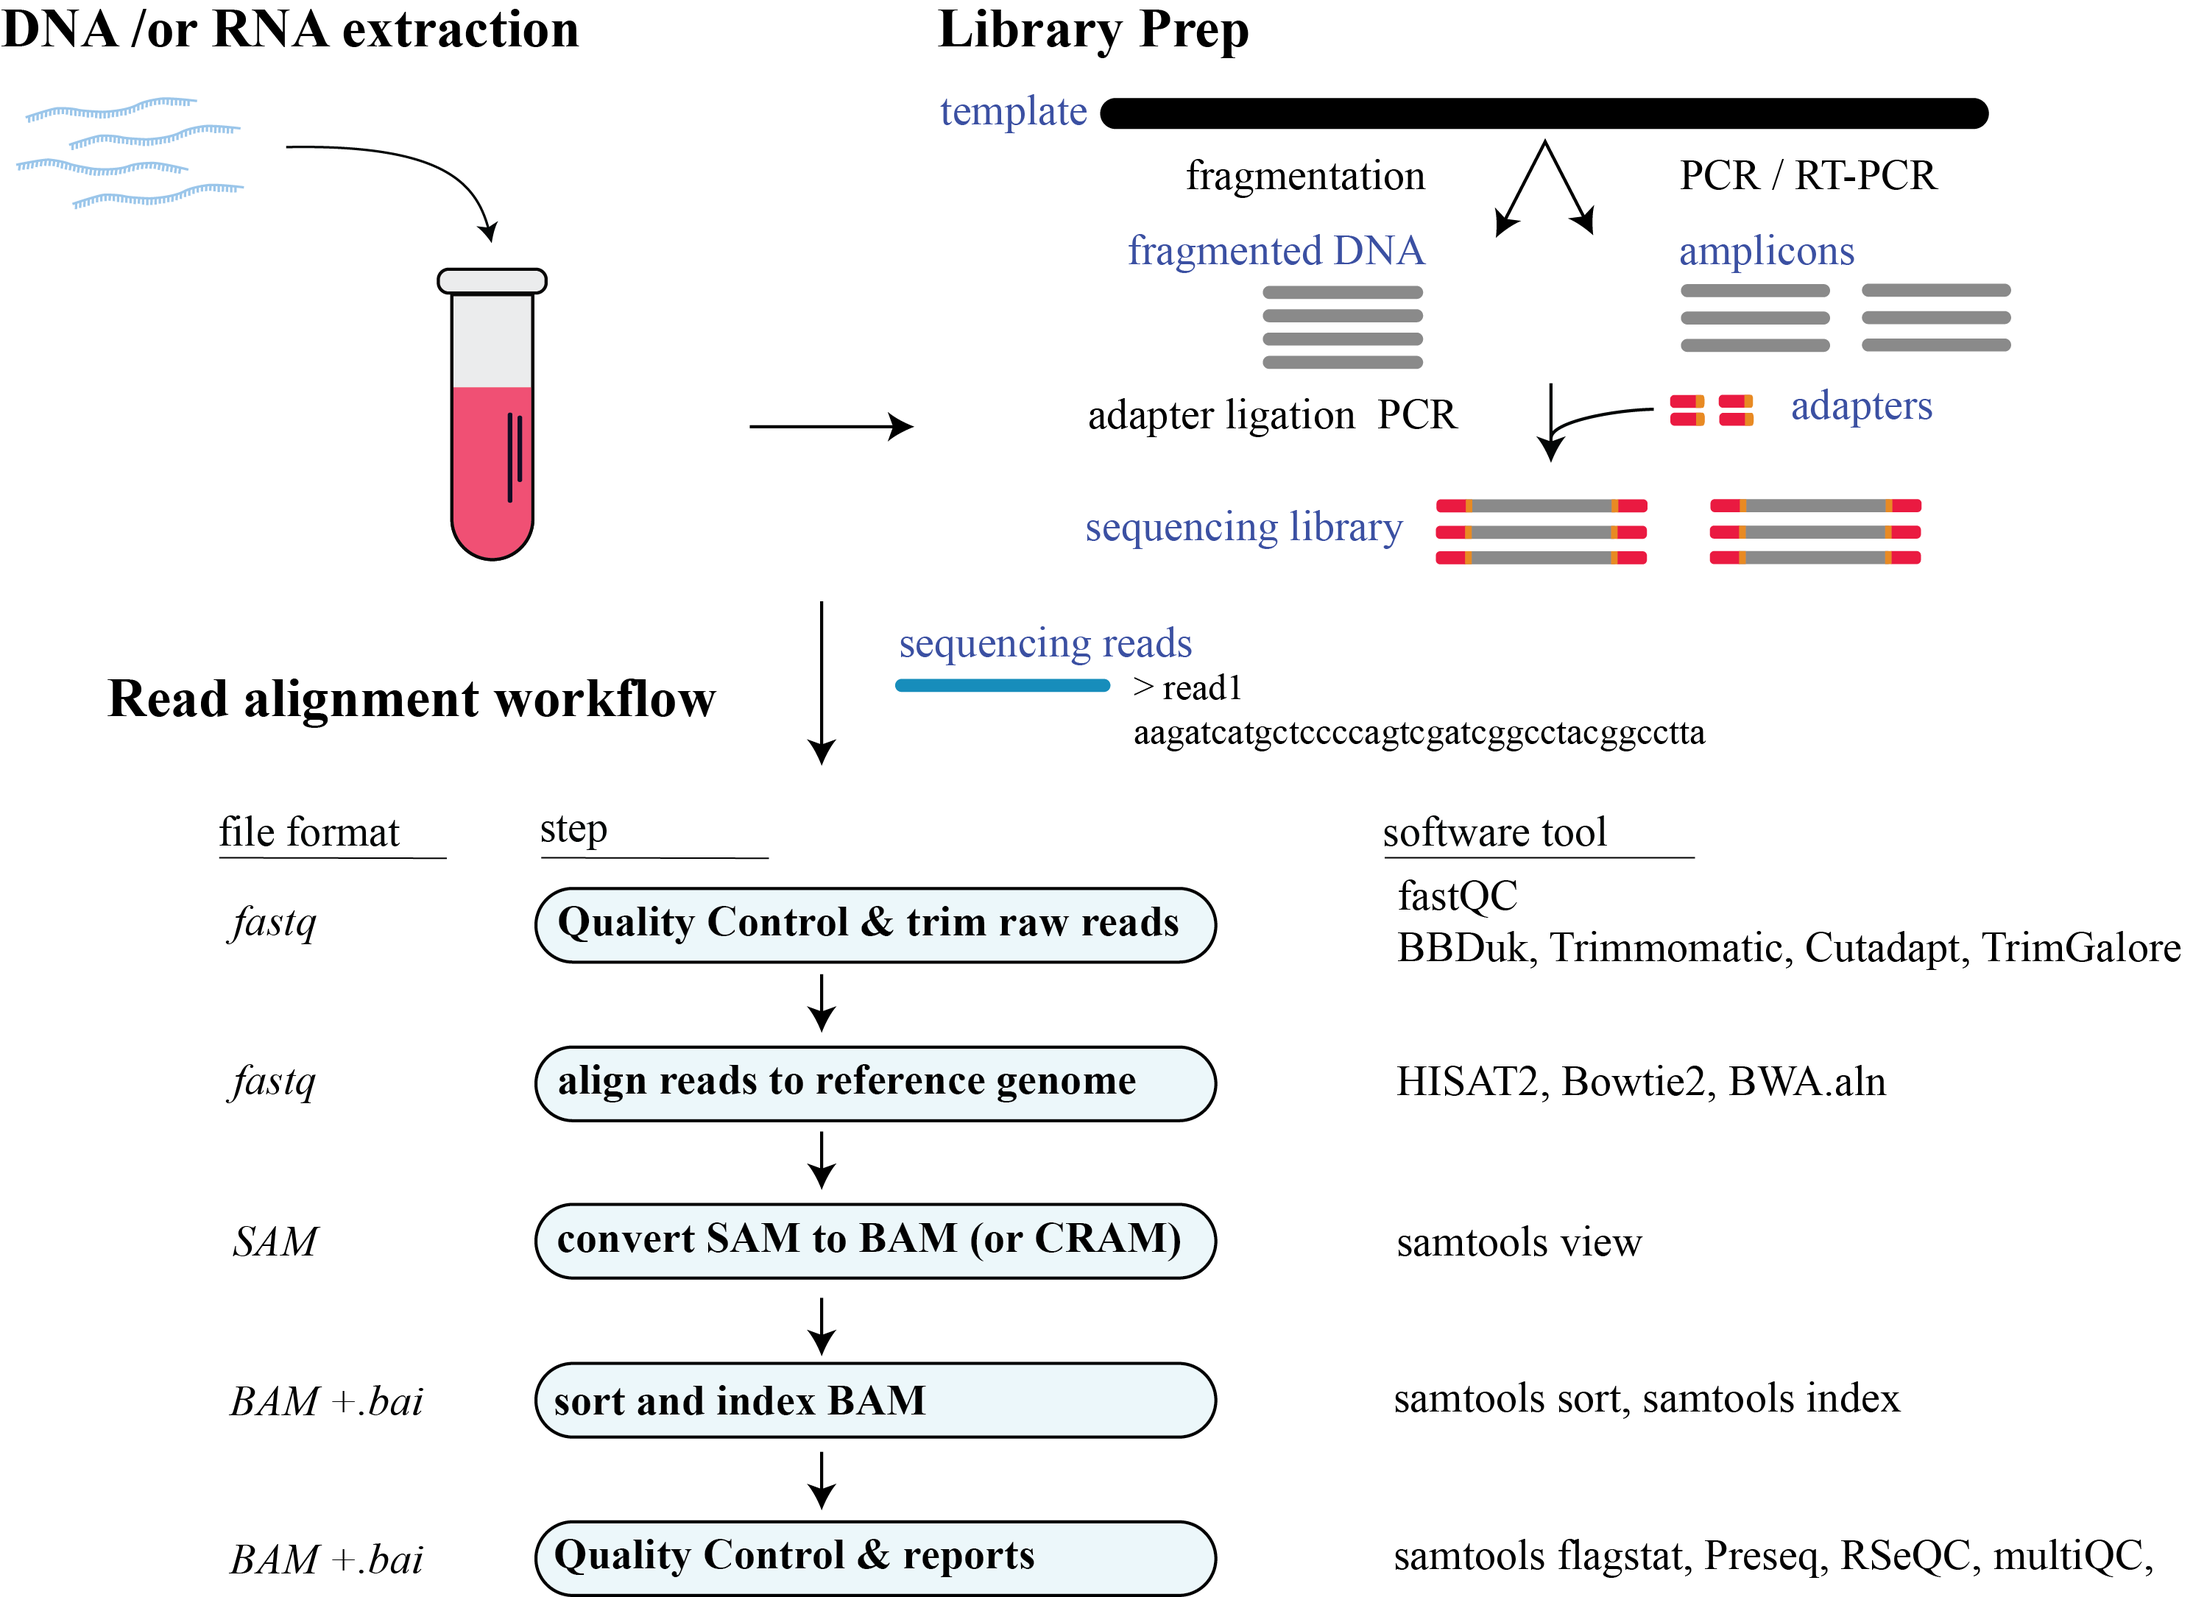
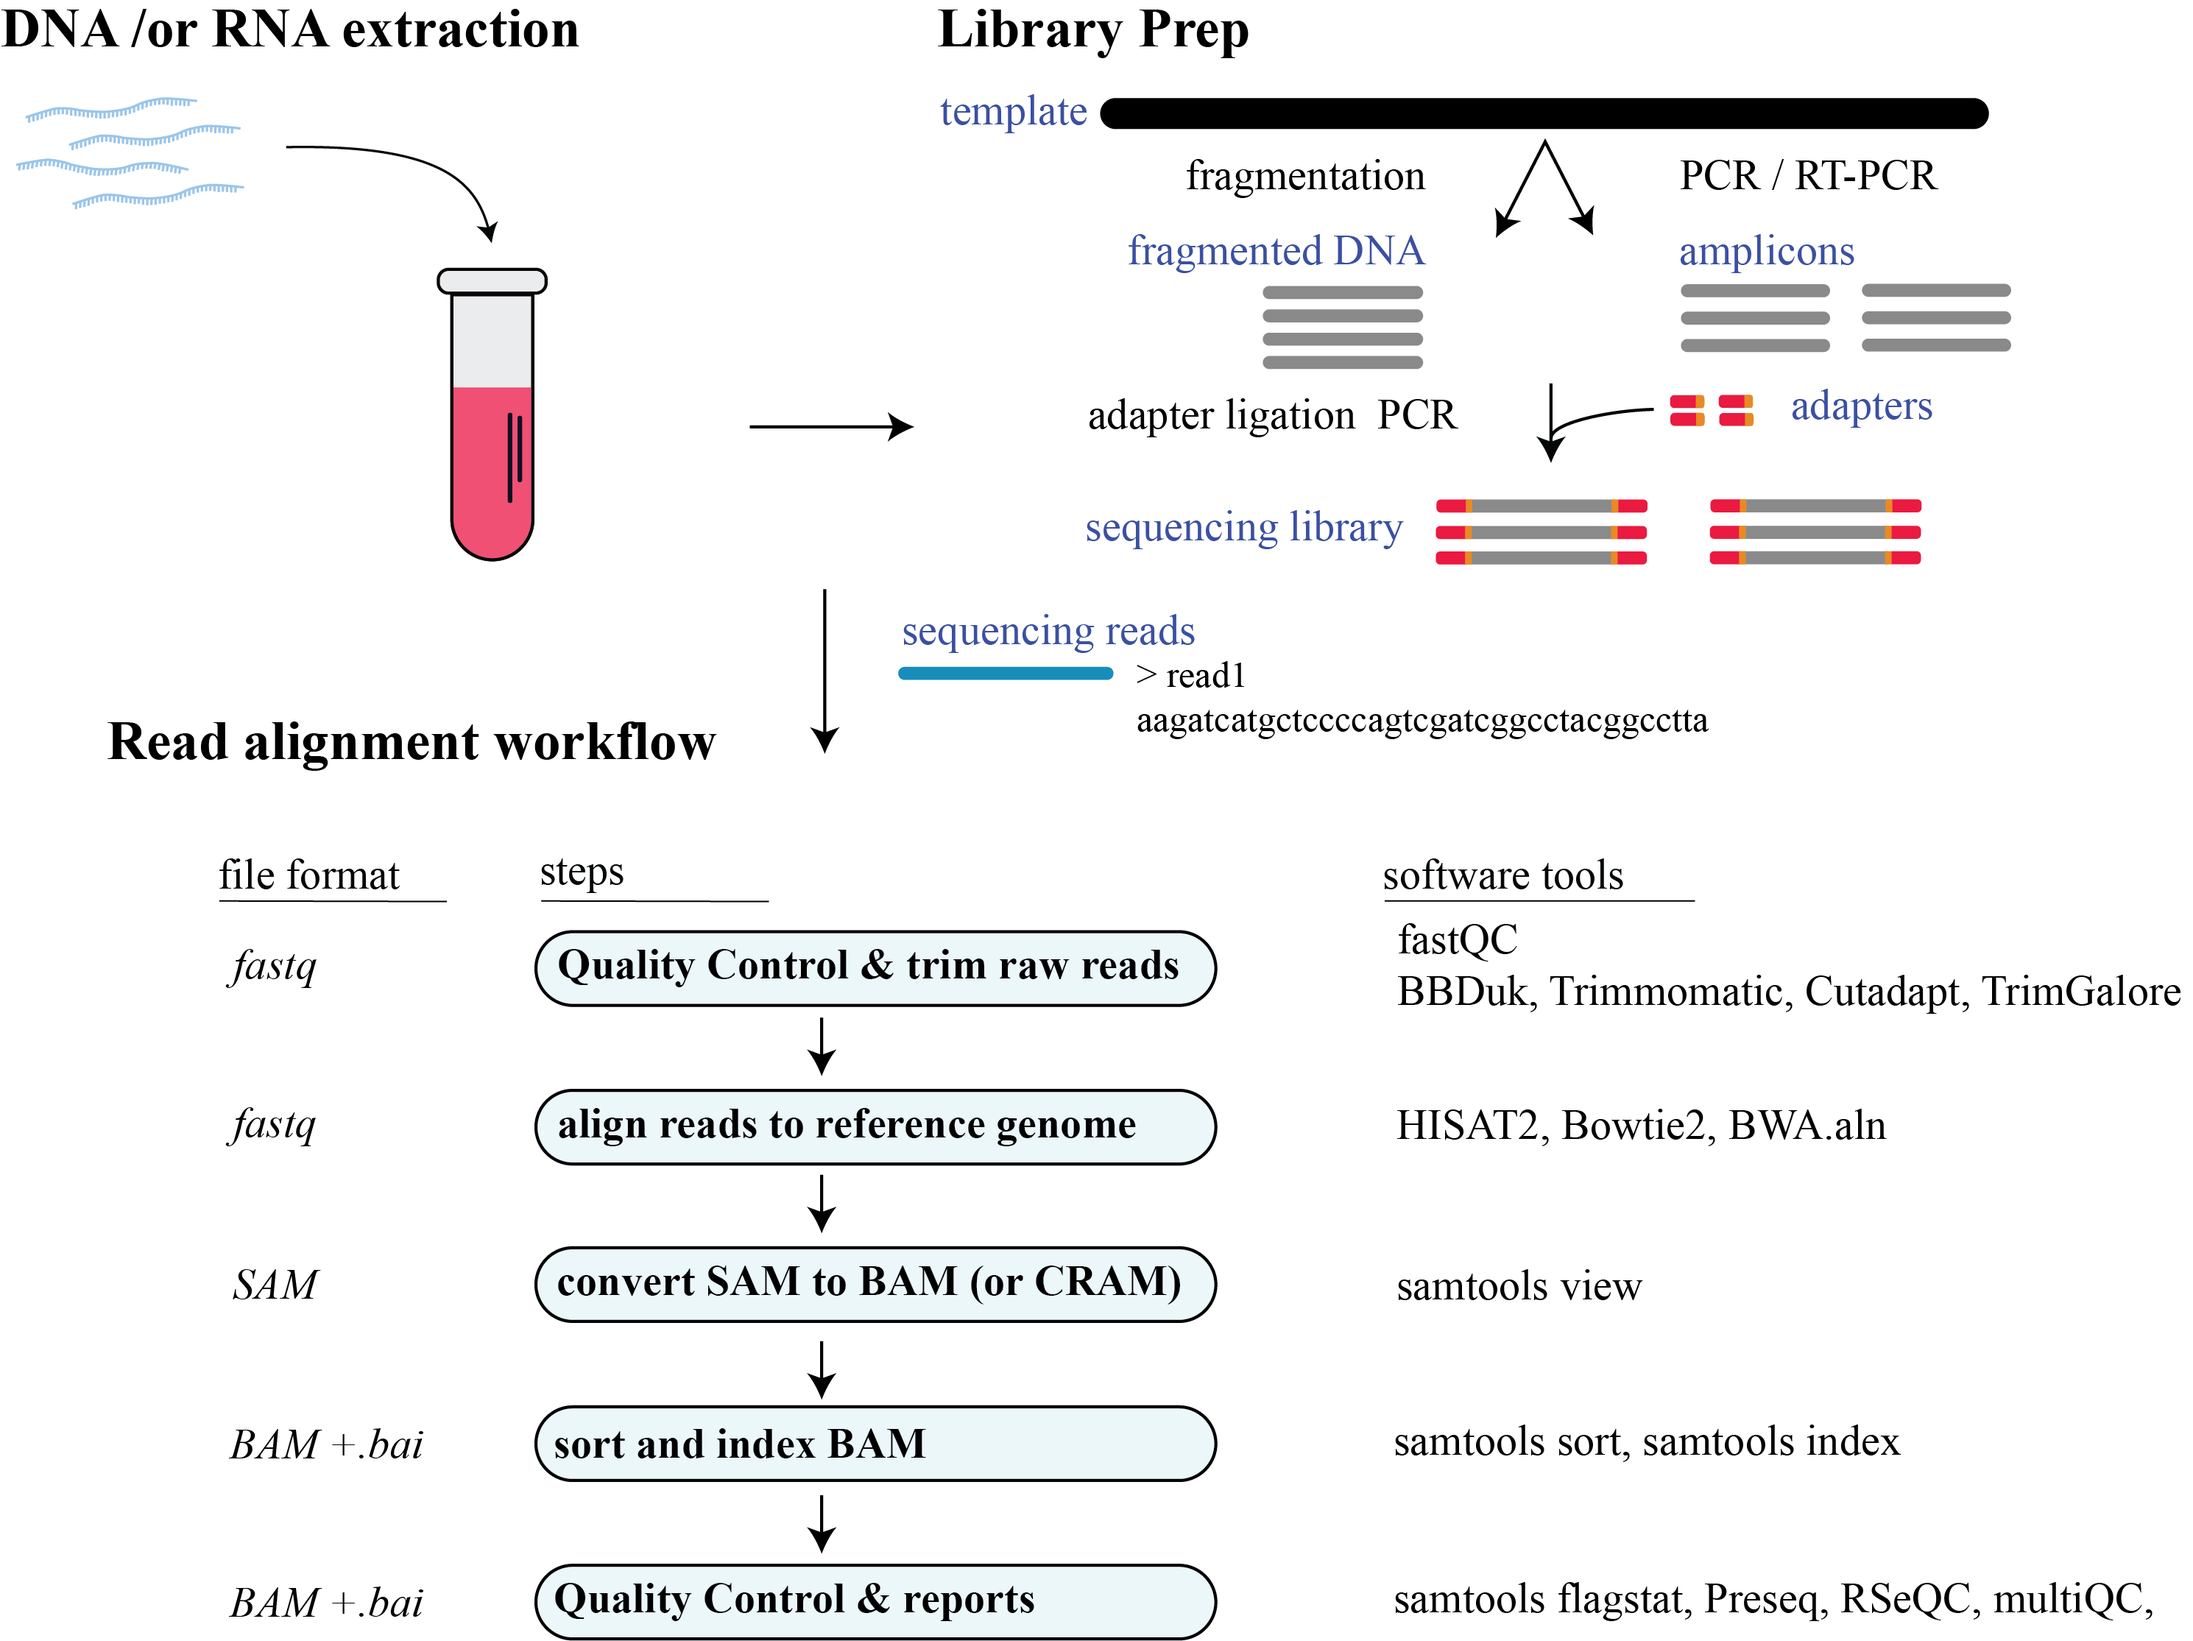
Update workflow image

diff --git a/NGS/README.md b/NGS/README.md
@@ -1,17 +1,14 @@
 # Next-generation sequence (NGS)
 NGS enable scientists to use high-throughput sequencing of DNA and RNA. In this repository I go over some of the basic tools that I have used to analyze my sequencing data. 
 
-![Next-generation sequencing illustration](NGS.png)
-
 ## Pipelines
 To work with NGS data, the process involves extracting raw FASTQ data from a sequencer and passing it through a NGS pipeline. This pipeline includes quality control, pre-processing, and alignment to a reference genome. This systematic approach transforms the initial raw sequencing data into interpretable information, enabling the extraction of valuable biological insights.
 
-![Next-generation sequencing alignment workflow](NGSworkflow.png)
+The 'pipeline' directory contains the pipeline shell script for 3 different NGS sequencing datatype; ChIP-seq, RNA-seq, and PRO-seq (nascent transcription). The software tools that the pipelines are dependent on are indicated in the illustration below under 'software tools.'
 
-The 'pipeline' directory contains the pipeline shell script for 3 different NGS sequencing datatype; ChIP-seq, RNA-seq, and PRO-seq (nascent transcription).
+![Next-generation sequencing alignment workflow](NGSworkflow.png)
 
 ### Additional resources
 * [NBCI SRA](https://www.ncbi.nlm.nih.gov/sra): Database to access and download public NGS data.
 * [Illumina's Introduction to NGS](https://www.illumina.com/science/technology/next-generation-sequencing.html): Illumina provides information on NGS sequencing technologies.
 * [DnA Short Reads Workshop](https://biodatasci.colorado.edu/shortread/): Previous online tutorial from the in-person workshop.
-
